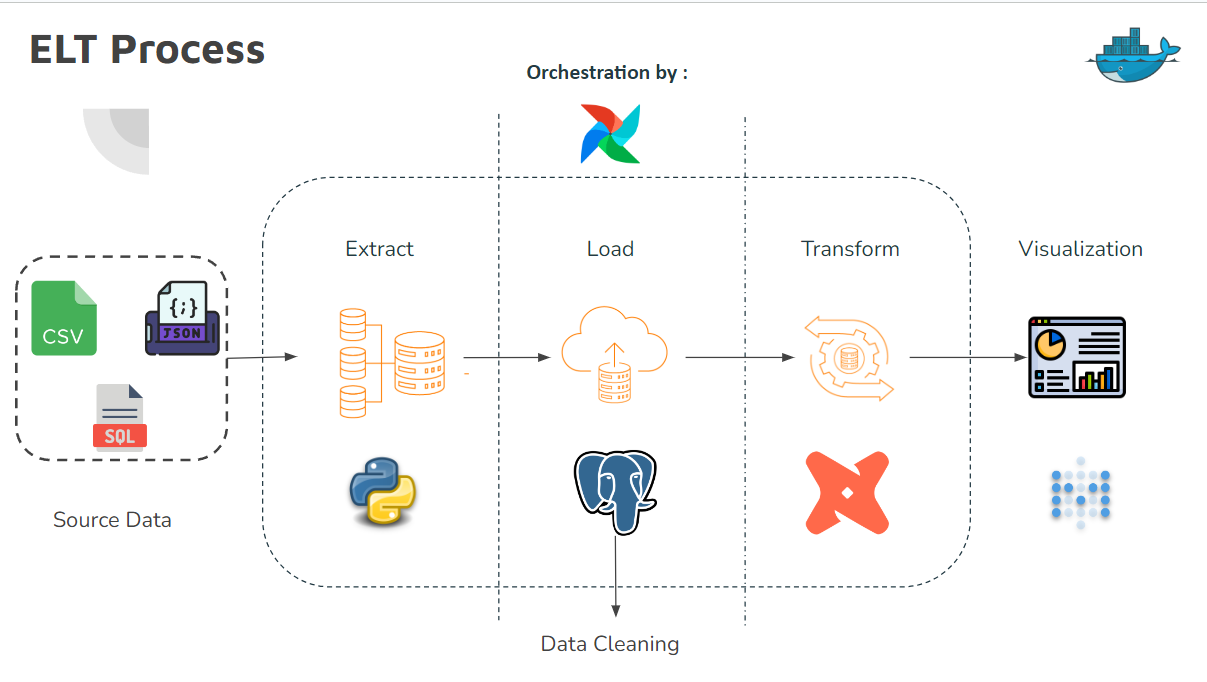
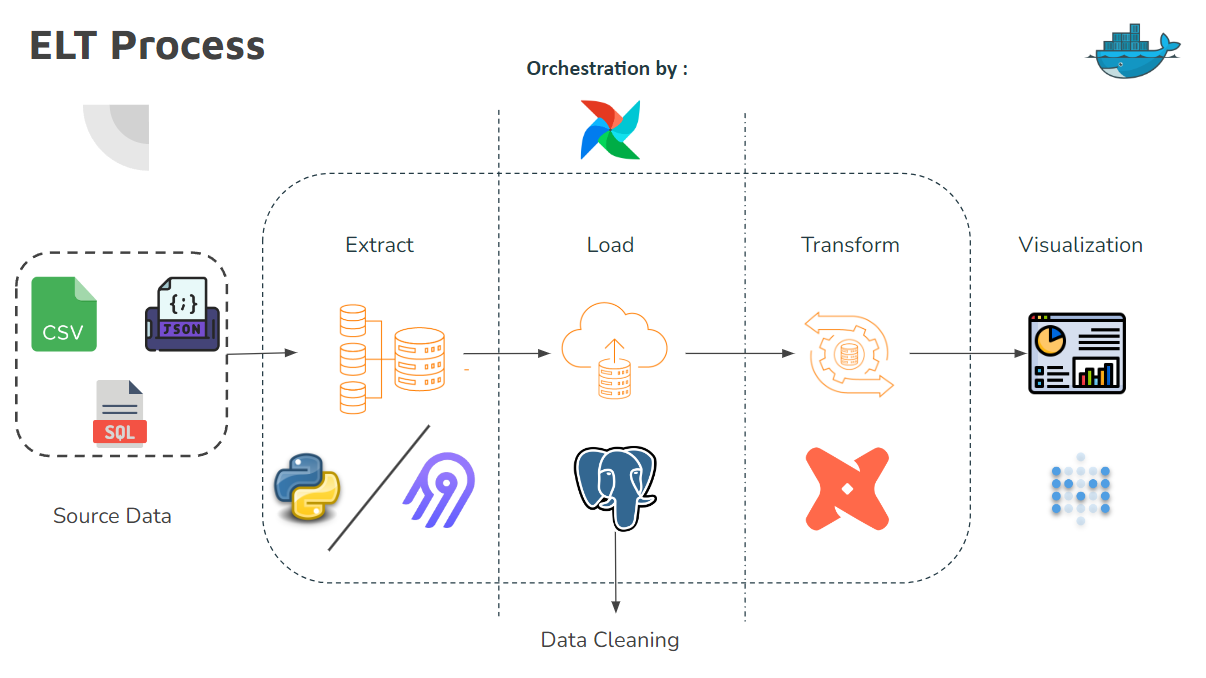
update

diff --git a/README.md b/README.md
@@ -26,6 +26,9 @@ PT. XYZ specializes in providing video animation consultation services to its pr
 <img alt ="Airbyte" src ="https://img.shields.io/badge/Airbyte-5865F2.svg?logo=Airbyte&logoColor=white">
 
 # 🚀 ELT Process
+
+**>>>If you want to use airbyte to ingest data, you can use [airbyte branch](https://github.com/CharisChakim/Membership-Optimization-and-Business-Performance-Analysis-of-XYZ-Firm/tree/airbyte)**
+
 ![alt text](images/image.png)
 
 In the data cleaning stage, you can follow step by step in cleaning_data SQL file or copy it into PostgreSQL and run it.
@@ -76,7 +79,7 @@ In the data cleaning stage, you can follow step by step in cleaning_data SQL fil
 
 # 🏃 Run Locally
 
-**If you want to use airbyte to ingest data, use [airbyte branch](https://github.com/CharisChakim/Membership-Optimization-and-Business-Performance-Analysis-of-XYZ-Firm/tree/airbyte)**
+**>>>Clone on airbyte branch if you want to ingesting data with airbyte [airbyte branch](https://github.com/CharisChakim/Membership-Optimization-and-Business-Performance-Analysis-of-XYZ-Firm/tree/airbyte)**
 
 Clone the project
 ```
